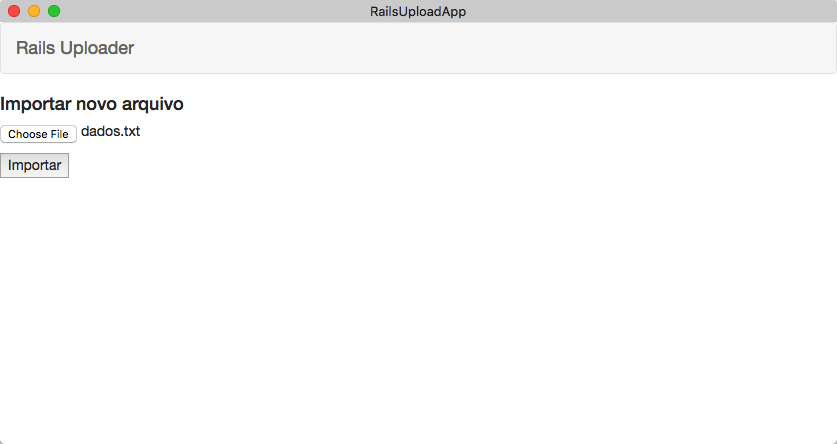
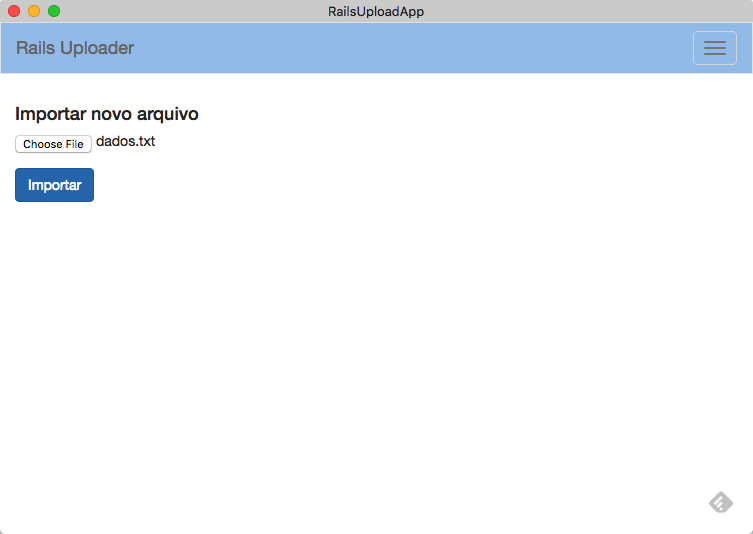
boostrap improved

Changed region(s): [[0.0, 0.0, 1.0, 0.1464], [0.0, 0.205, 0.2749, 0.4099], [0.9469, 0.9077, 0.9774, 0.9662]]

diff --git a/app/assets/stylesheets/application.scss b/app/assets/stylesheets/application.scss
@@ -15,3 +15,8 @@
 @import "bootstrap-sprockets";
 @import "bootstrap";@import "bootstrap-sprockets";
 @import "bootstrap";
+
+.navbar {
+  background-color: #A4C8EC;
+  background-image: none;
+}
